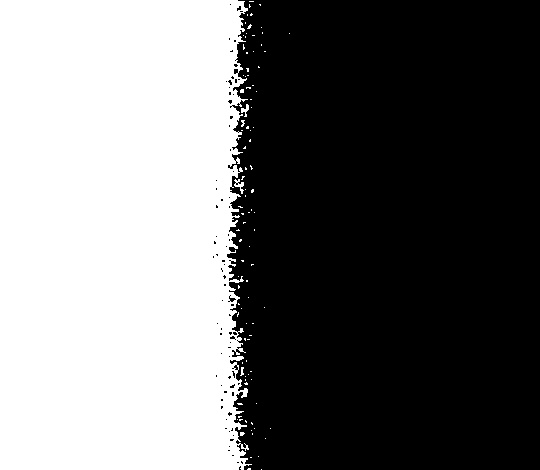
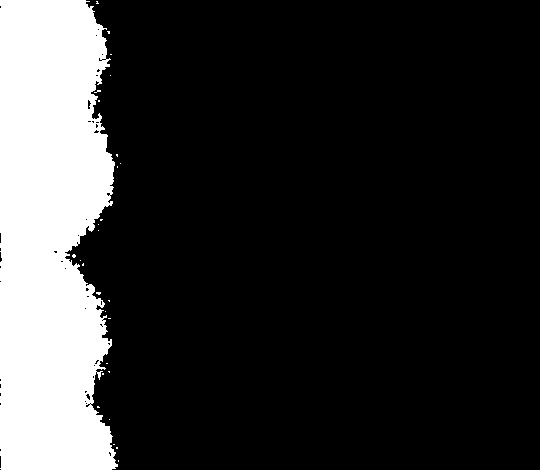
Third laboratory task - threshold

Changed region(s): [[0.1185, 0.0, 0.4741, 1.0]]

diff --git a/lab_2/main.py b/lab_2/main.py
@@ -18,10 +18,9 @@ y_end_point = 490
 crop = image[y_start_point:y_end_point, x_start_point:x_end_point]
 
 # Image thresholding
-_, thresh_bin = cv.threshold(crop, 127, 255, cv.THRESH_BINARY)
+_, thresh_bin = cv.threshold(crop, 200, 255, cv.THRESH_BINARY)
 _,thresh_otsu = cv.threshold(crop,0,255,cv.THRESH_BINARY+cv.THRESH_OTSU)
 thresh_adaptive = cv.adaptiveThreshold(crop,255,cv.ADAPTIVE_THRESH_MEAN_C, cv.THRESH_BINARY,5,2)
-
 cv.imwrite("binary_threshold.jpg", thresh_bin)
 cv.imwrite("otsu_threshold.jpg", thresh_otsu)
 cv.imwrite("adaptive_threshold.jpg", thresh_adaptive)
